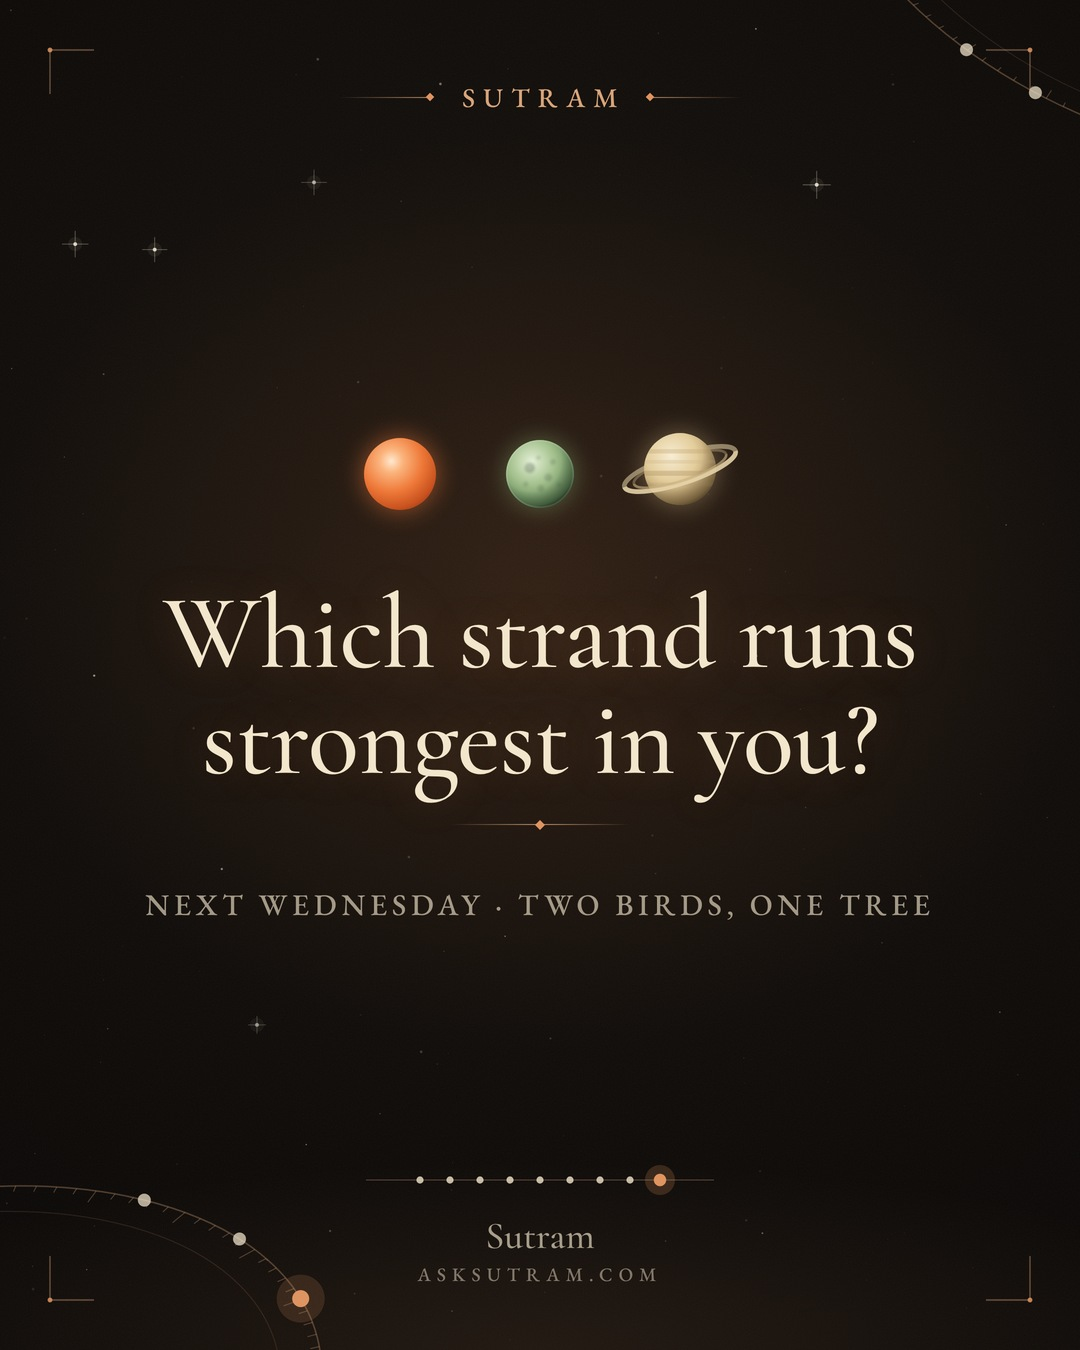
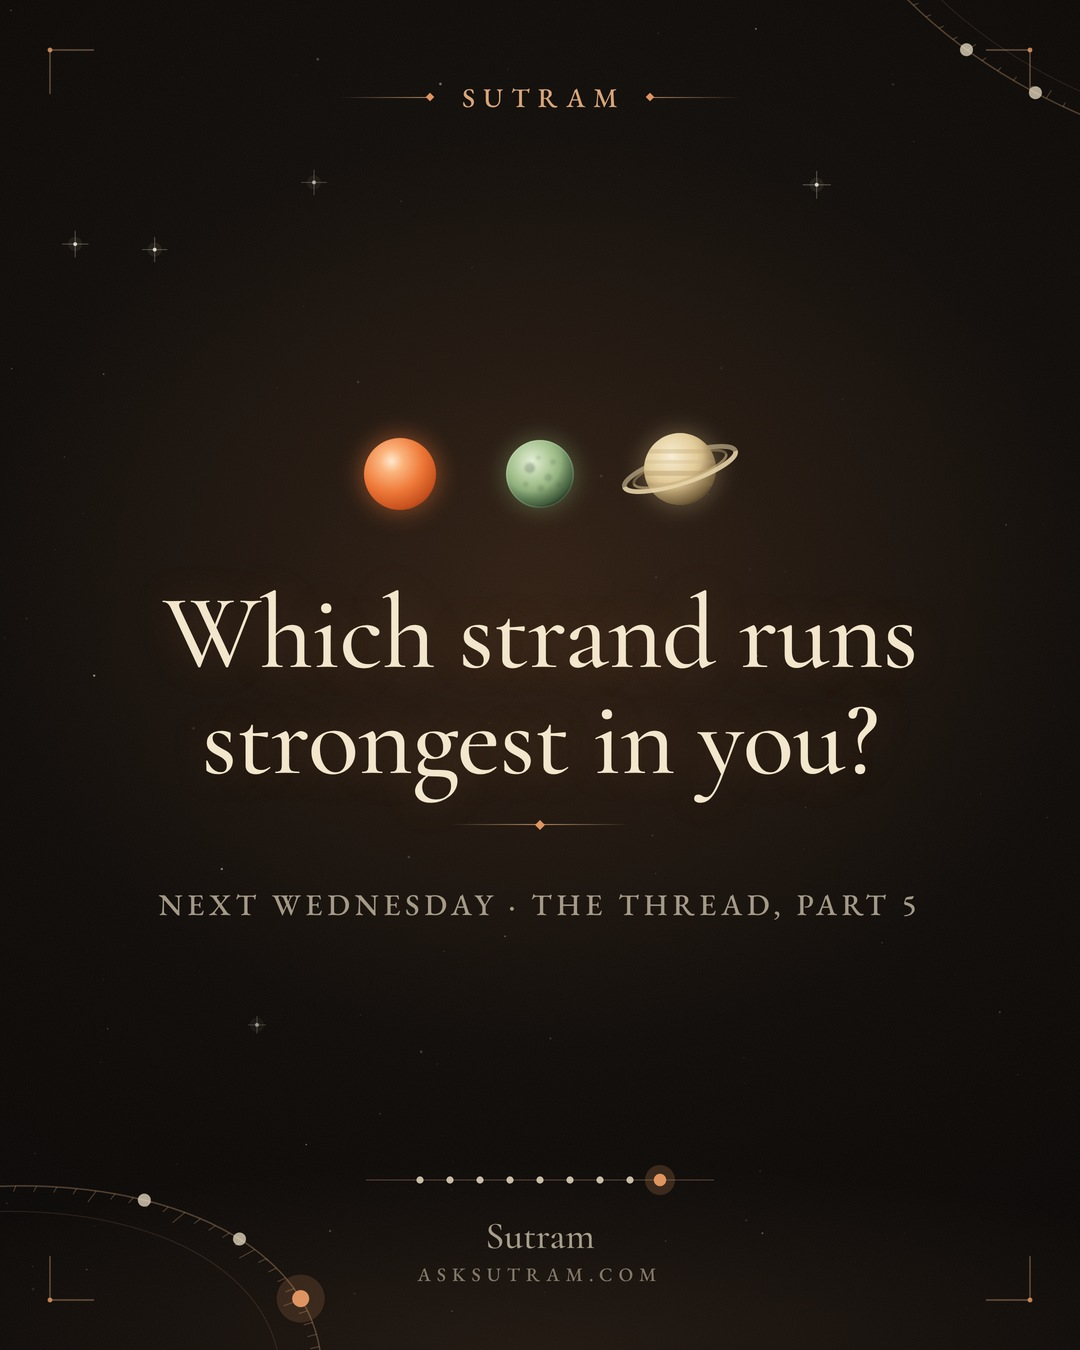
Thread Ep 4: closing slide points to part 5 (Two birds moves later)
Claude-Session: https://claude.ai/code/session_01X9pp4MPGSrEYuhTBtz7gpY

Changed region(s): [[0.4889, 0.6533, 0.8556, 0.6844], [0.1222, 0.6533, 0.4583, 0.6844]]

diff --git a/tools/week47.py b/tools/week47.py
@@ -212,7 +212,7 @@ post(id='thread-ep4-strands', when='2026-11-18T18:30:00-05:00', slides=[
     dict(type='quote', label='Bhagavad Gita 14.5', labelsize=34, quote='Clear, restless, heavy: born of nature, they bind the one in the body',
          quotesize=74, source='Sutram’s rendering'),
     txt('Read it in\nyour chart', 'Your rising lord and Moon: which strand?', size=96, orbs=[O('moon', 44)]),
-    cta('Which strand runs\nstrongest in you?', 'Next Wednesday · Two birds, one tree', [O('sun', 36, rings=False), O('mercury', 34, dx=140), O('saturn', 36, dx=140)]),
+    cta('Which strand runs\nstrongest in you?', 'Next Wednesday · The Thread, part 5', [O('sun', 36, rings=False), O('mercury', 34, dx=140), O('saturn', 36, dx=140)]),
 ], caption="""The three strands of you
 
 In the Bhagavad Gita, Krishna tells Arjuna that three gunas, born of nature, bind the one who lives in the body (14.5). Guna means a strand of a rope. Three strands, twisted into one rope: you.
